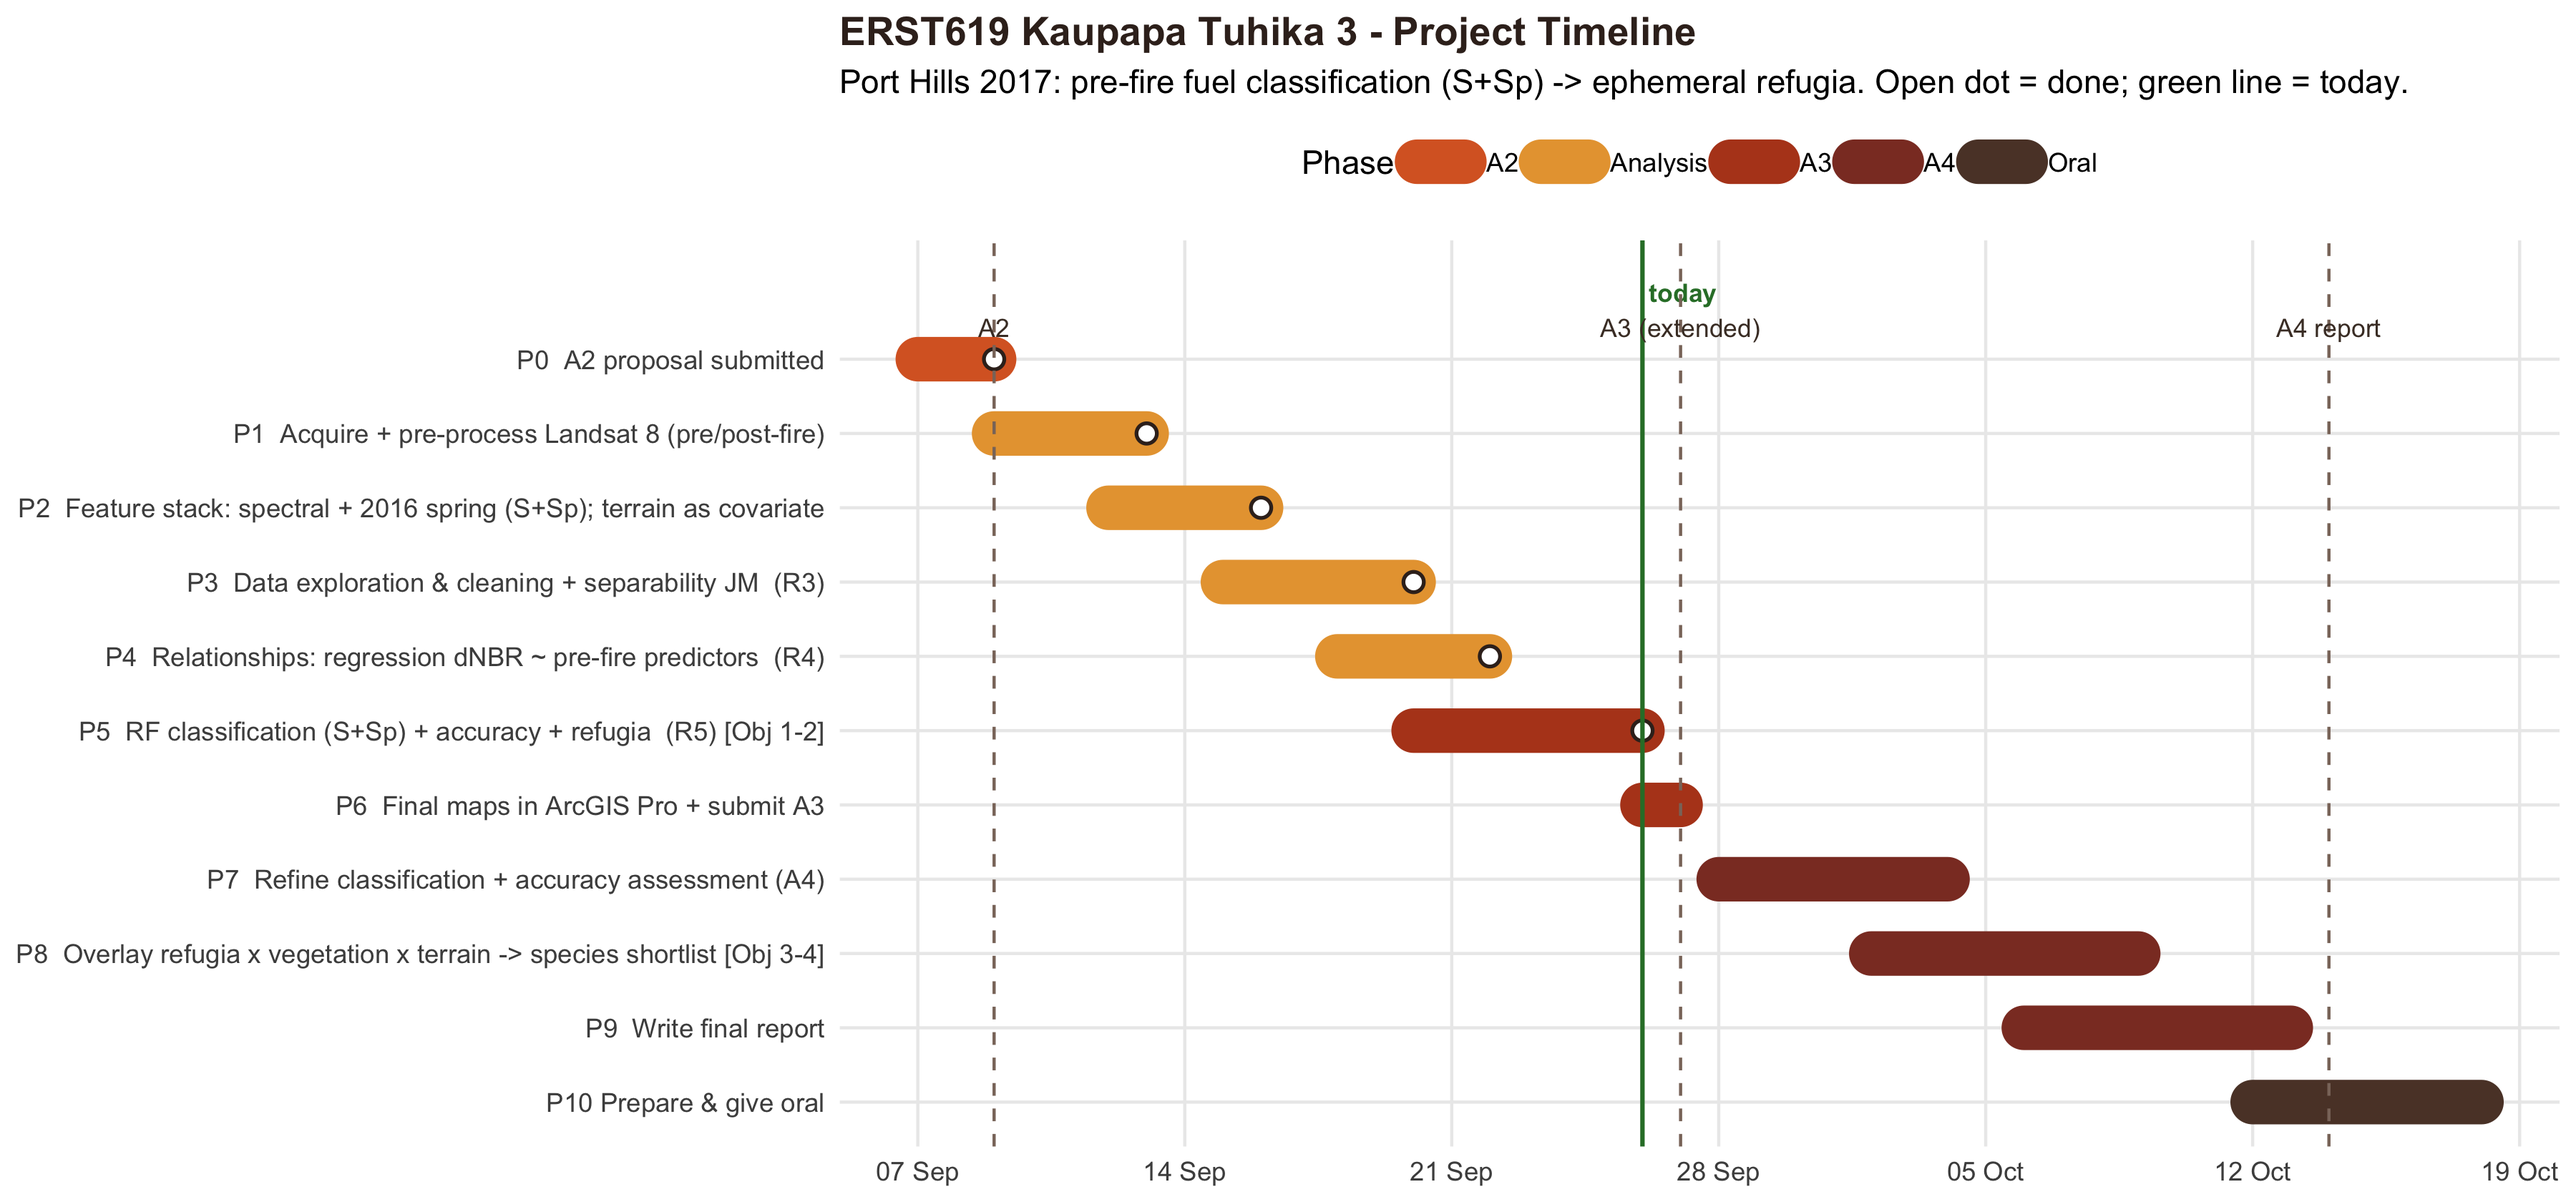
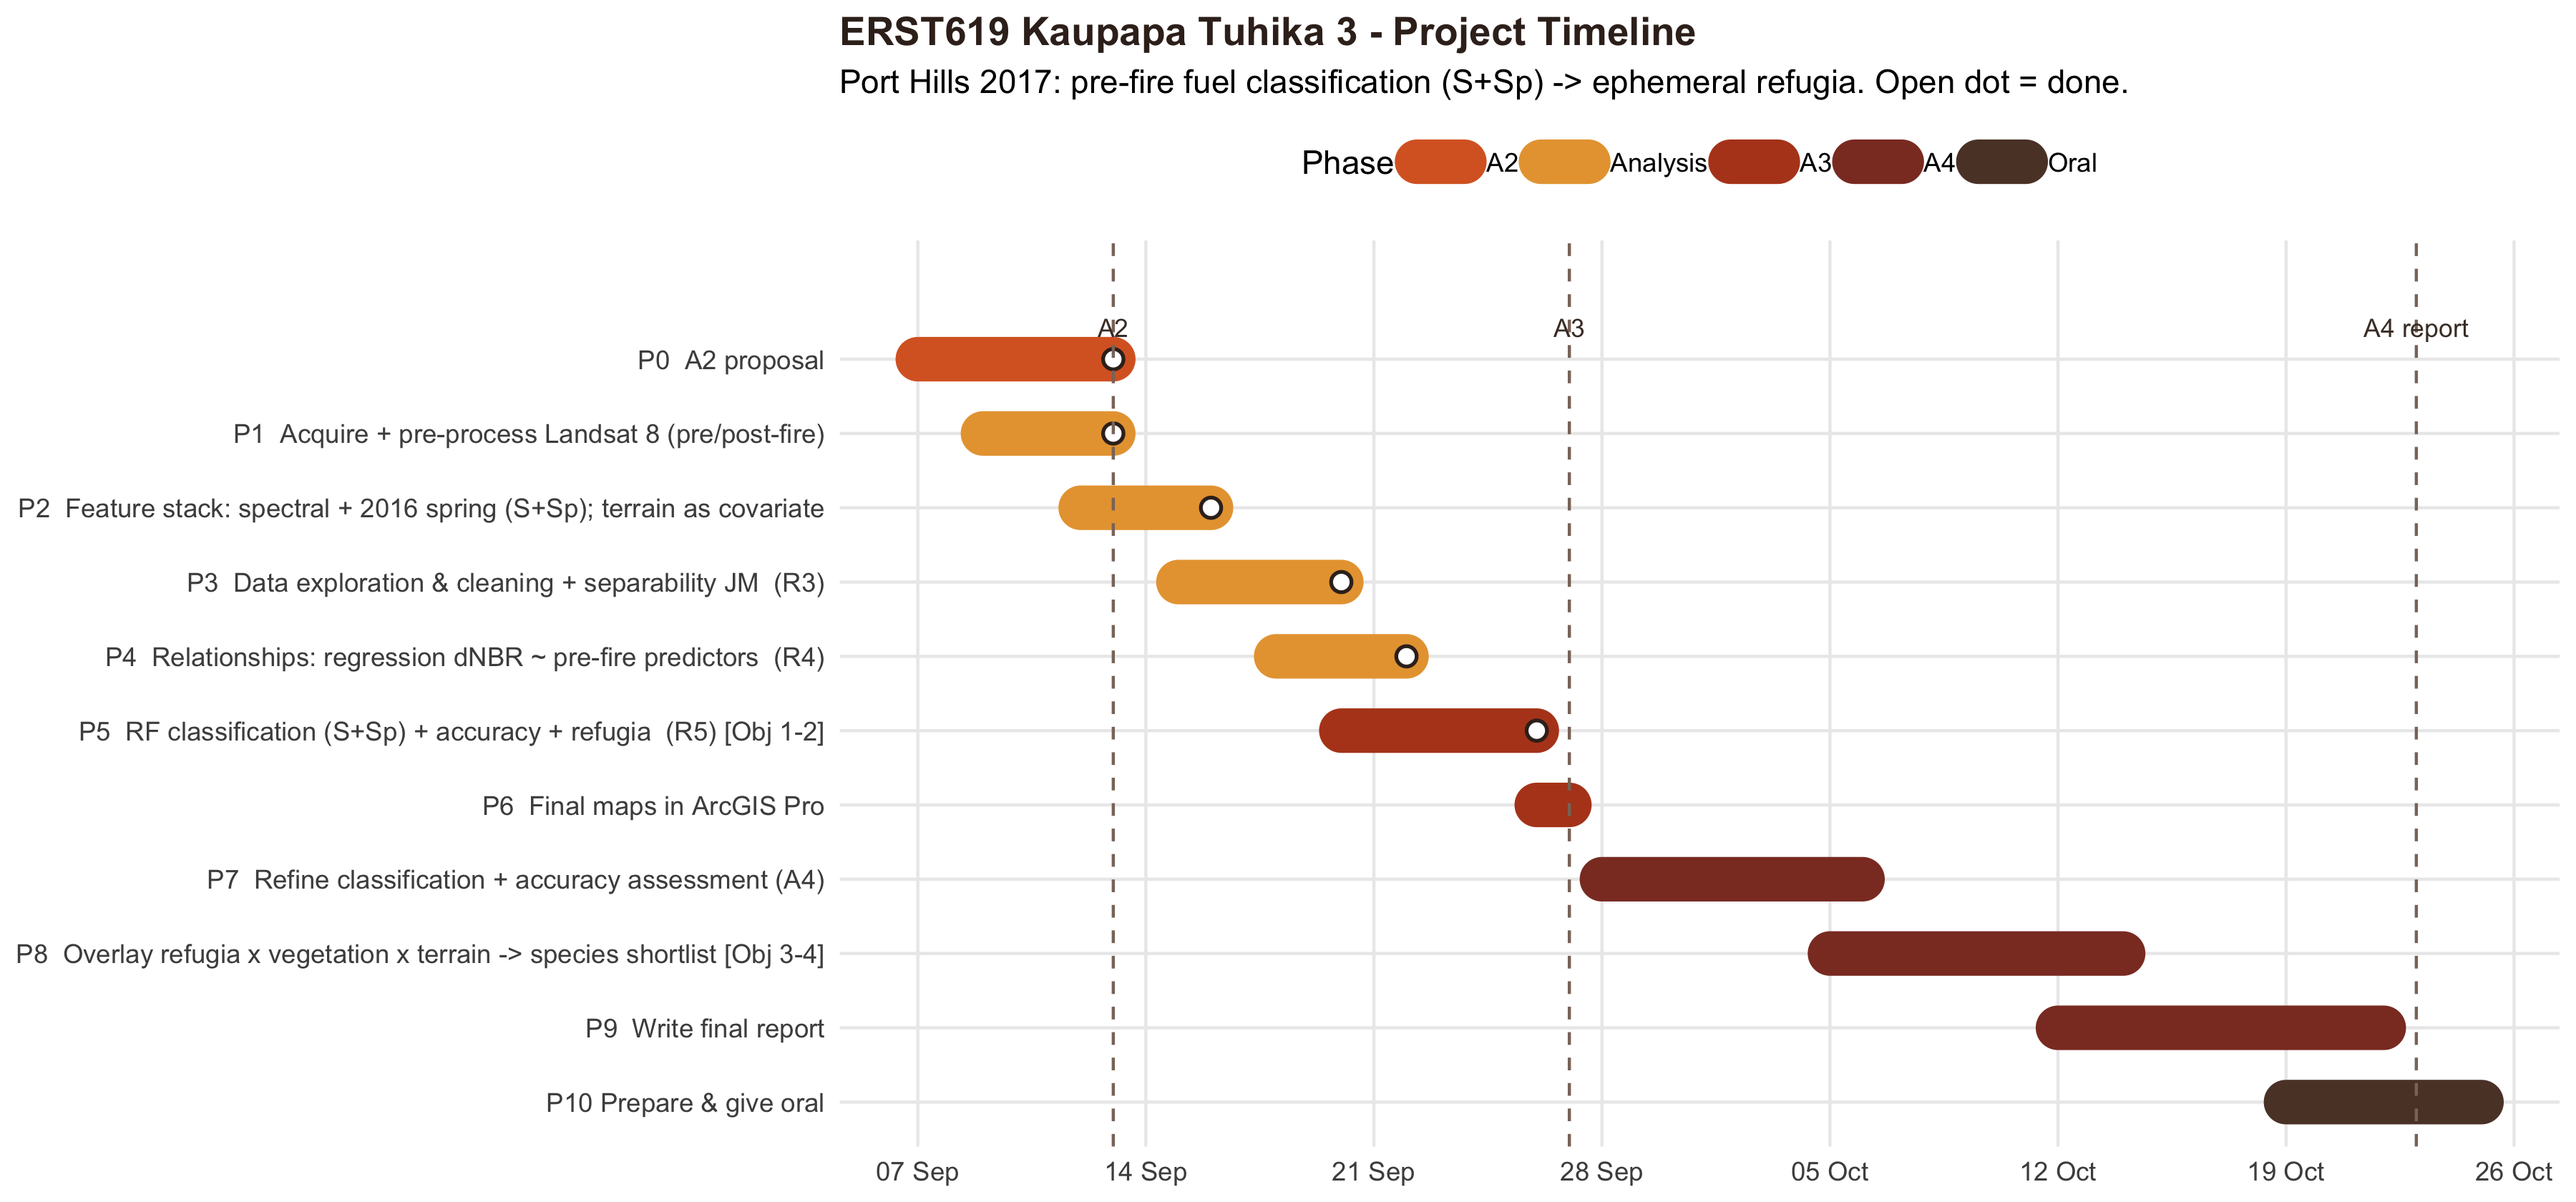
Timeline: drop today line, A4/oral +1wk (report 10-23 Fri), A2 fixed to 09-13; add map layout note (teacher feedback + best practices)
- A3_timeline: removed today line; A4 report milestone -> 10-23 (Fri); A4 tasks span continuously to oral 10-25 (no gap); A2 milestone corrected to 09-13 (Sun)
- map_layout_notes.md: teacher's A3 map feedback (main map left; inset/legend/scale/N arrow stacked right, left-aligned; fix cut-off left edges) + cartographic best-practice (visual hierarchy, required elements, colour, ArcGIS Pro steps, references)
- report.md R7: pointer to map_layout_notes + teacher feedback summary

diff --git a/map_layout_notes.md b/map_layout_notes.md
@@ -1,0 +1,85 @@
+# 地图排版笔记 · 老师反馈 + 最好看的做法（A4 重做地图照这个）
+
+> 学习/规划笔记，非提交正文。服务 A4 的 Map1(燃料分类)、Map2(refugia)、Fig5_8。
+> 更新：2026-09-26
+
+---
+
+## 1. 老师原话反馈（verbatim，A3 地图批注）
+
+> "For future, I would move the **main map to the left** of your figure, and place the **insert map, legend and scale bar all on the right** of your map along with the **N arrow**. Be careful that you have **slightly cut off the left of the insert map, legend and scale bar**."
+
+拆成两条 actionable：
+1. **重排**：主图挪到左边(占最大块) → 右侧竖排放 inset(定位小图)、N 指北针、图例、比例尺。
+2. **修 bug**：inset / 图例 / 比例尺的**左边被裁掉了一点** → 布局时留够页边距，别贴边。
+
+---
+
+## 2. 为什么这样排最好看（原理，不是背规则）
+
+- **视觉层级**：主图是主角，读者视线从左上进入 → 主图放左边、给最大空间，一眼落在它上面；辅助元素(inset/图例/比例尺/指北针)是配角，**全部收到右边一列**，不跟主图抢注意力。
+- **分组 = 干净**：同类东西聚在一起(右列全是"读图工具")，比零散撒在四角更整齐、留白更规整。
+- **对齐**：右列元素**左边缘对齐**成一条隐形竖线(ArcGIS Pro 里用 Guides 拉一条参考线,所有元素吸附上去) → 这也顺手根治老师说的"左边被裁"问题。
+- **留白/页边距**：布局四周留 ≥0.5–1cm 白边，任何元素都别碰到图框边——"被裁掉"就是元素放到了出血区外。
+
+---
+
+## 3. 推荐布局（ASCII 草图，A4 照着摆）
+
+```
++---------------------------------------------------+
+| Map 1 — Pre-fire fuel classes, Port Hills 2017    |  <- 标题(左上或顶部)
+| +-----------------------------+   +------------+  |
+| |                             |   |  inset /   |  |  <- 定位小图(NZ/Canterbury
+| |                             |   |  locator   |  |     里圈出 AOI)
+| |                             |   +------------+  |
+| |         MAIN MAP            |         ^ N       |  <- 指北针
+| |     (fuel classes)          |                   |
+| |                             |   +------------+  |
+| |                             |   |  Legend    |  |  <- 图例(4类颜色块)
+| |                             |   |  ▢ pasture |  |
+| |                             |   |  ▢ gorse   |  |
+| |                             |   |  ▢ broadl. |  |
+| |                             |   |  ▢ pine    |  |
+| +-----------------------------+   +------------+  |
+|                                   |___|___| 0 1km |  <- 比例尺
+| Source: Landsat 8 / LCDB · EPSG:2193 (NZTM)       |  <- 来源+投影(底部)
++---------------------------------------------------+
+```
+右列从上到下：**inset → N 指北针 → 图例 → 比例尺**，全部**左对齐**成一条线。
+
+---
+
+## 4. 一张好地图的必备元素（你 report.md R7 已在查的 6 项 + 补充）
+
+| 元素 | 要点 |
+|---|---|
+| **标题 Title** | 说清"什么变量 + 哪里 + 什么时间"(如 "Pre-fire fuel classes, Port Hills, 2017") |
+| **图例 Legend** | 4 类颜色块 + 文字；颜色要能区分、对色盲友好(避免红绿并列) |
+| **比例尺 Scale bar** | 用**条形比例尺**(不用"1:xxxxx"文字比例，缩放打印会失真) |
+| **指北针 North arrow** | 简洁即可，别用花哨的；NZTM 下正北 |
+| **定位小图 Inset/Locator** | 在大范围(NZ 或 Canterbury)里圈出 AOI，读者才知道在哪 |
+| **来源 + 投影 Source + CRS** | 底部小字：数据源(Landsat 8 / LCDB) + **EPSG:2193 (NZTM)** |
+| 补：**图框/邻域** | 主图外可留浅色底图/等高线做上下文，但别喧宾夺主 |
+| 补：**字体统一** | 全图一种字体(跟报告一致用 Calibri)，字号分级(标题>图例>来源) |
+
+## 5. "更好看"的加分项（配色/细节）
+
+- **配色**：燃料 4 类用**语义色**——pasture 浅黄绿、gorse/broom 黄橙(呼应开花)、broadleaf 深绿、pine 墨绿；refugia 图 unburned=绿、越烧越红。用 ColorBrewer 的定性/顺序色板挑，别自己乱调。
+- **对比**：类别之间明度/色相拉开，打印黑白也能分。
+- **克制**：网格线、经纬网可选；能少则少，图面越干净越"贵"。
+- **一致**：Map1 和 Map2 用**同一套边框、字体、比例尺样式、AOI 范围** → 两张并排像一套的。
+
+## 6. ArcGIS Pro 里怎么落地（操作提示）
+
+- Layout 里 **View → Guides** 拉竖/横参考线，右列元素靠参考线**左对齐**(直接修掉"左边被裁")。
+- 元素选中后 **Format → Arrange → Align Left** 批量对齐。
+- 主图 frame 拉大占左 ~⅔ 宽；右 ⅓ 竖排放四个辅助元素。
+- 导出 **File → Export Layout**，四周留白，别导出到贴边。
+
+## 7. 延伸阅读（真实来源，想深入再看）
+
+- ESRI ArcGIS Pro 官方文档：*Add and modify a legend / scale bar / north arrow*（Layout 排版最权威的操作参考）
+- Cynthia Brewer, *Designing Better Maps: A Guide for GIS Users*（配色/排版经典，ColorBrewer 作者）
+- Slocum et al., *Thematic Cartography and Geovisualization*（专题制图教材，视觉层级/图面组织）
+- ColorBrewer2.org（选色工具，定性/顺序/发散三类色板）

diff --git a/report.md b/report.md
@@ -234,6 +234,11 @@
   **还差**：图例条目有个小重复(ArcGIS默认行为，机房GUI里10秒能关掉)；标题+来源说明这2个文字框
   没能用脚本加(这版ArcGIS Pro的arcpy.mp没有`createTextElement`方法，查过不是漏用，是真没有)，
   留给Yu在Pro里手动加，文字内容28号脚本运行时已经打印出来，直接复制。
+- ⭐ **老师对 A3 地图的反馈(A4 照这个重排，详见 [`map_layout_notes.md`](map_layout_notes.md))**：
+  主图挪到**左边**占最大块 → 右侧**竖排**放 inset 定位图 / N 指北针 / 图例 / 比例尺，全部**左对齐**；
+  并修掉"inset/图例/比例尺**左边被裁掉一点**"的问题(Pro 里用 Guides 拉参考线对齐 + 留够页边距)。
+  这条正好把 R7 的排版从"6 要素齐不齐"升级到"**要素怎么摆才好看**"——布局笔记里有 ASCII 草图、配色和
+  ArcGIS 操作步骤，是 A4 way forward 的一部分。
 
 ### R8 时间线（4分 · 喂：US10）
 - 更新到 **A4 最终报告 + oral**，每周做什么。
